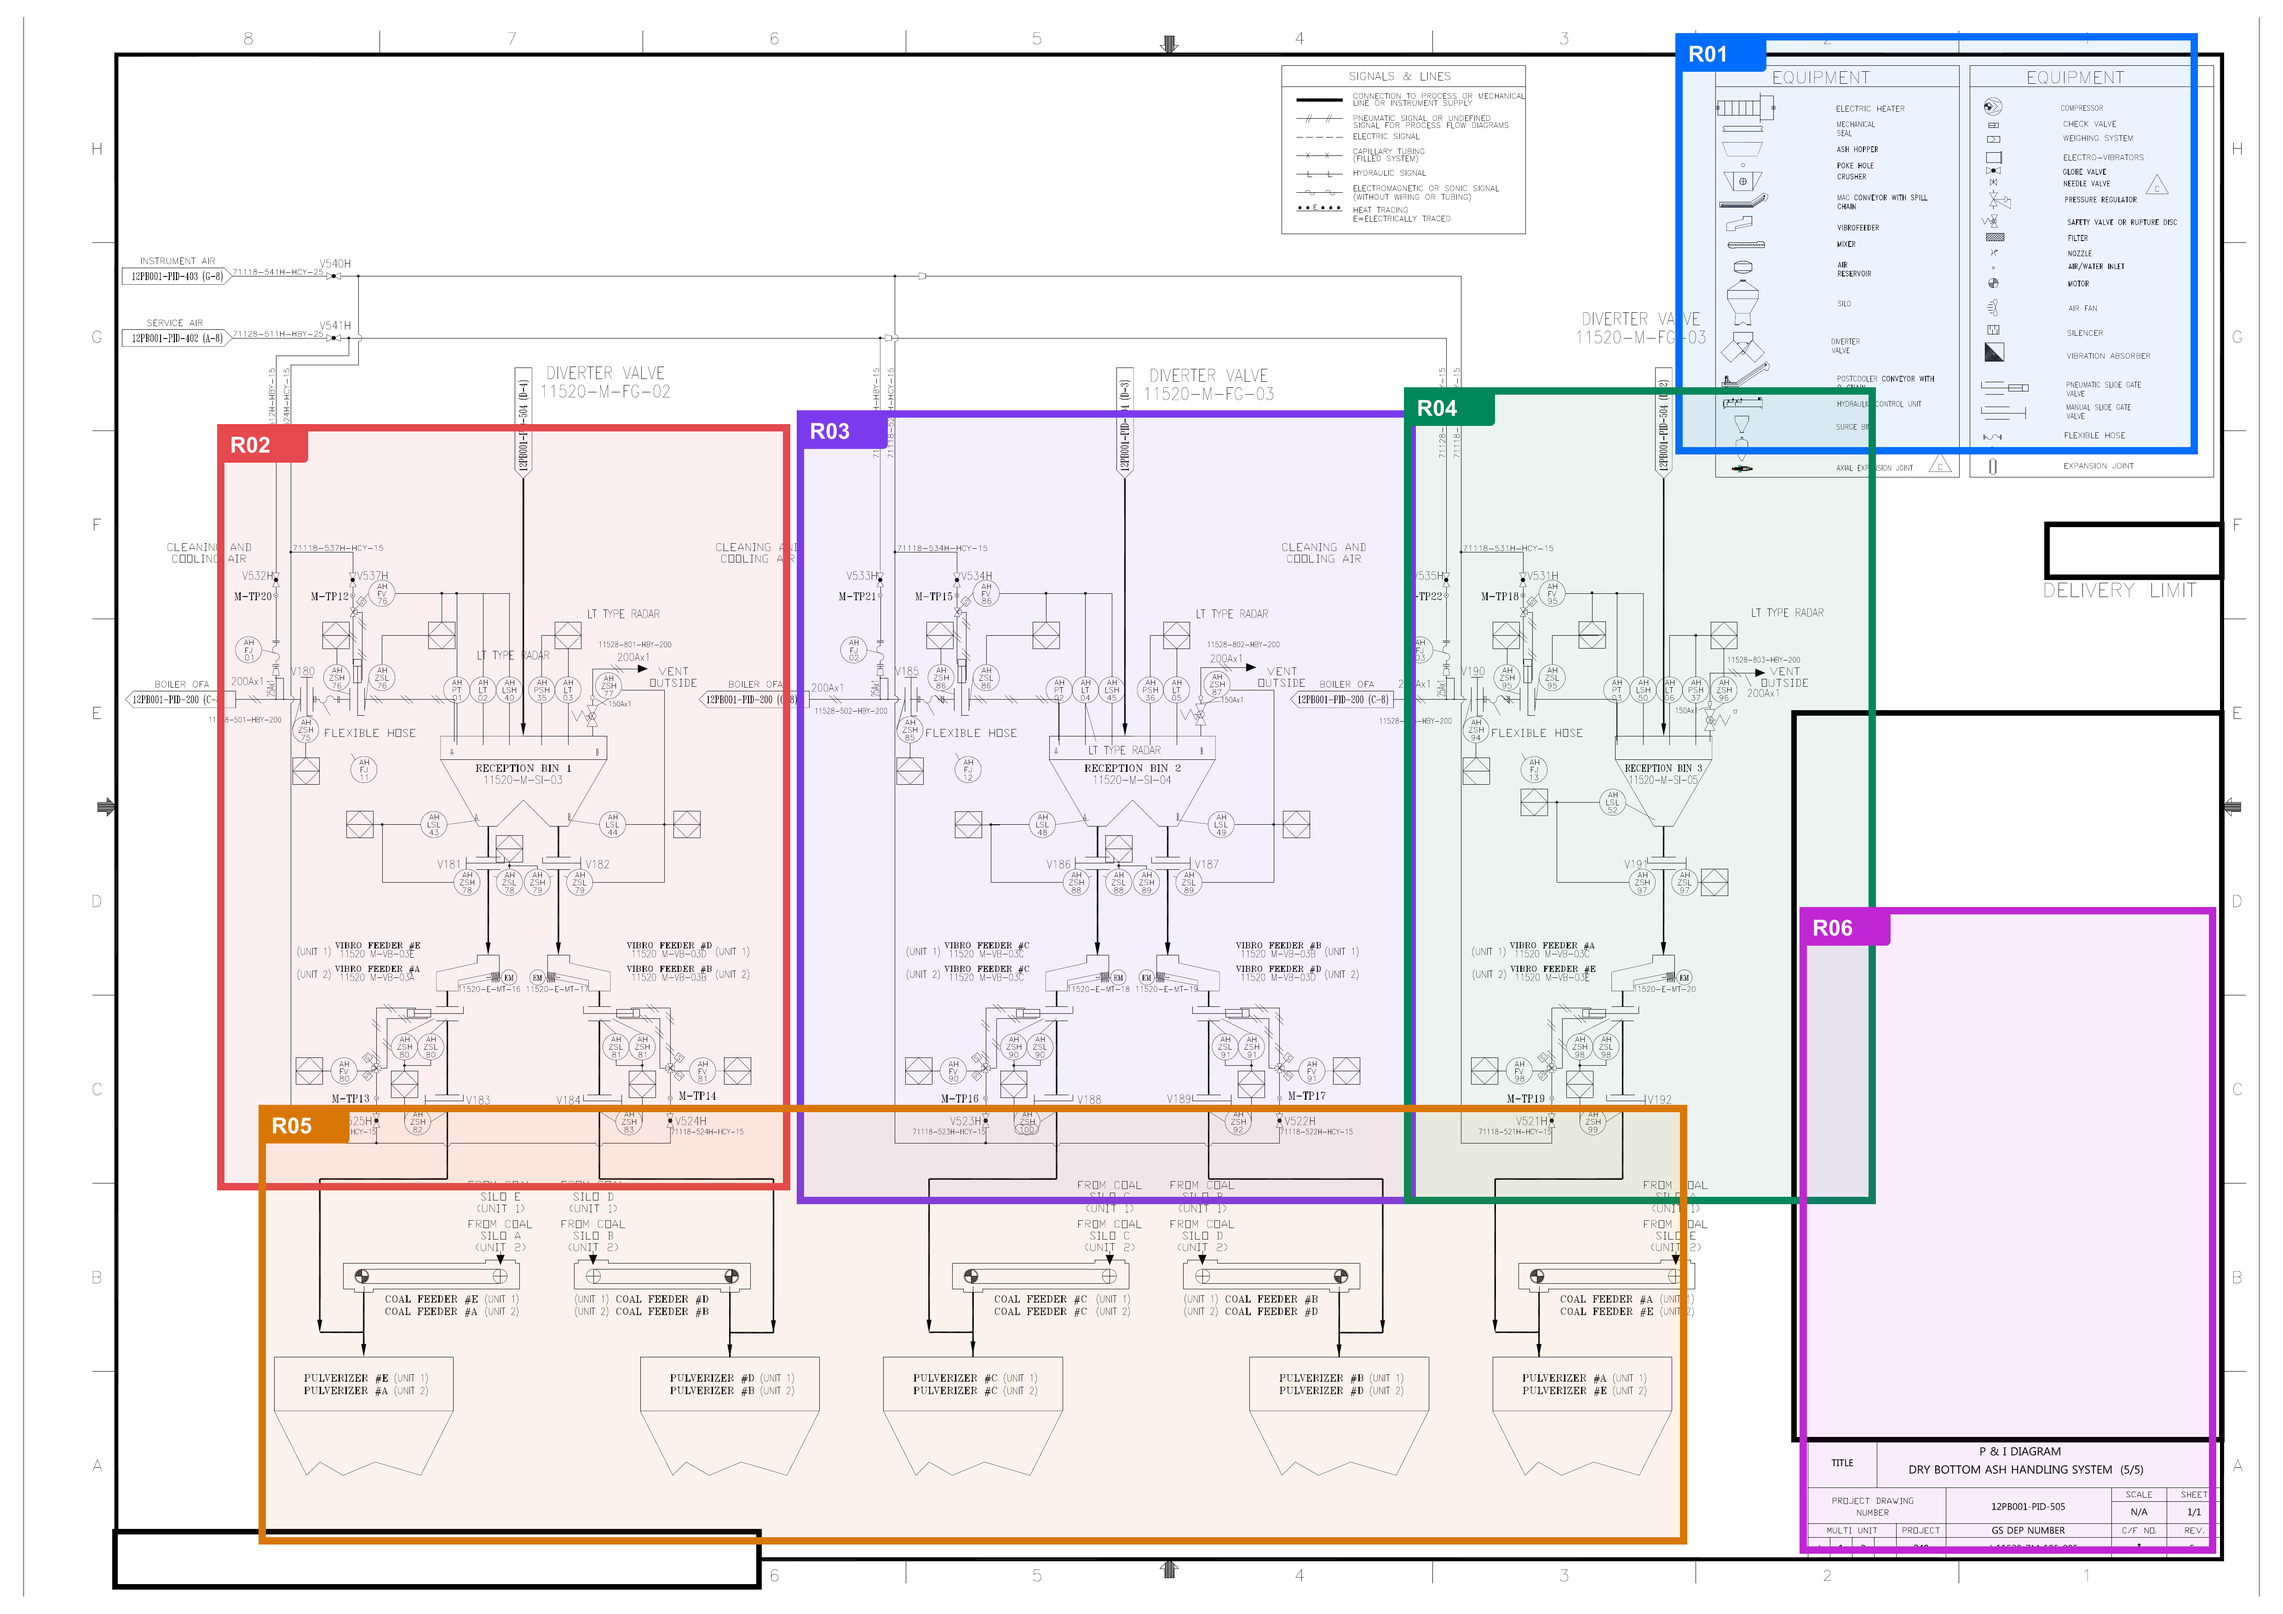
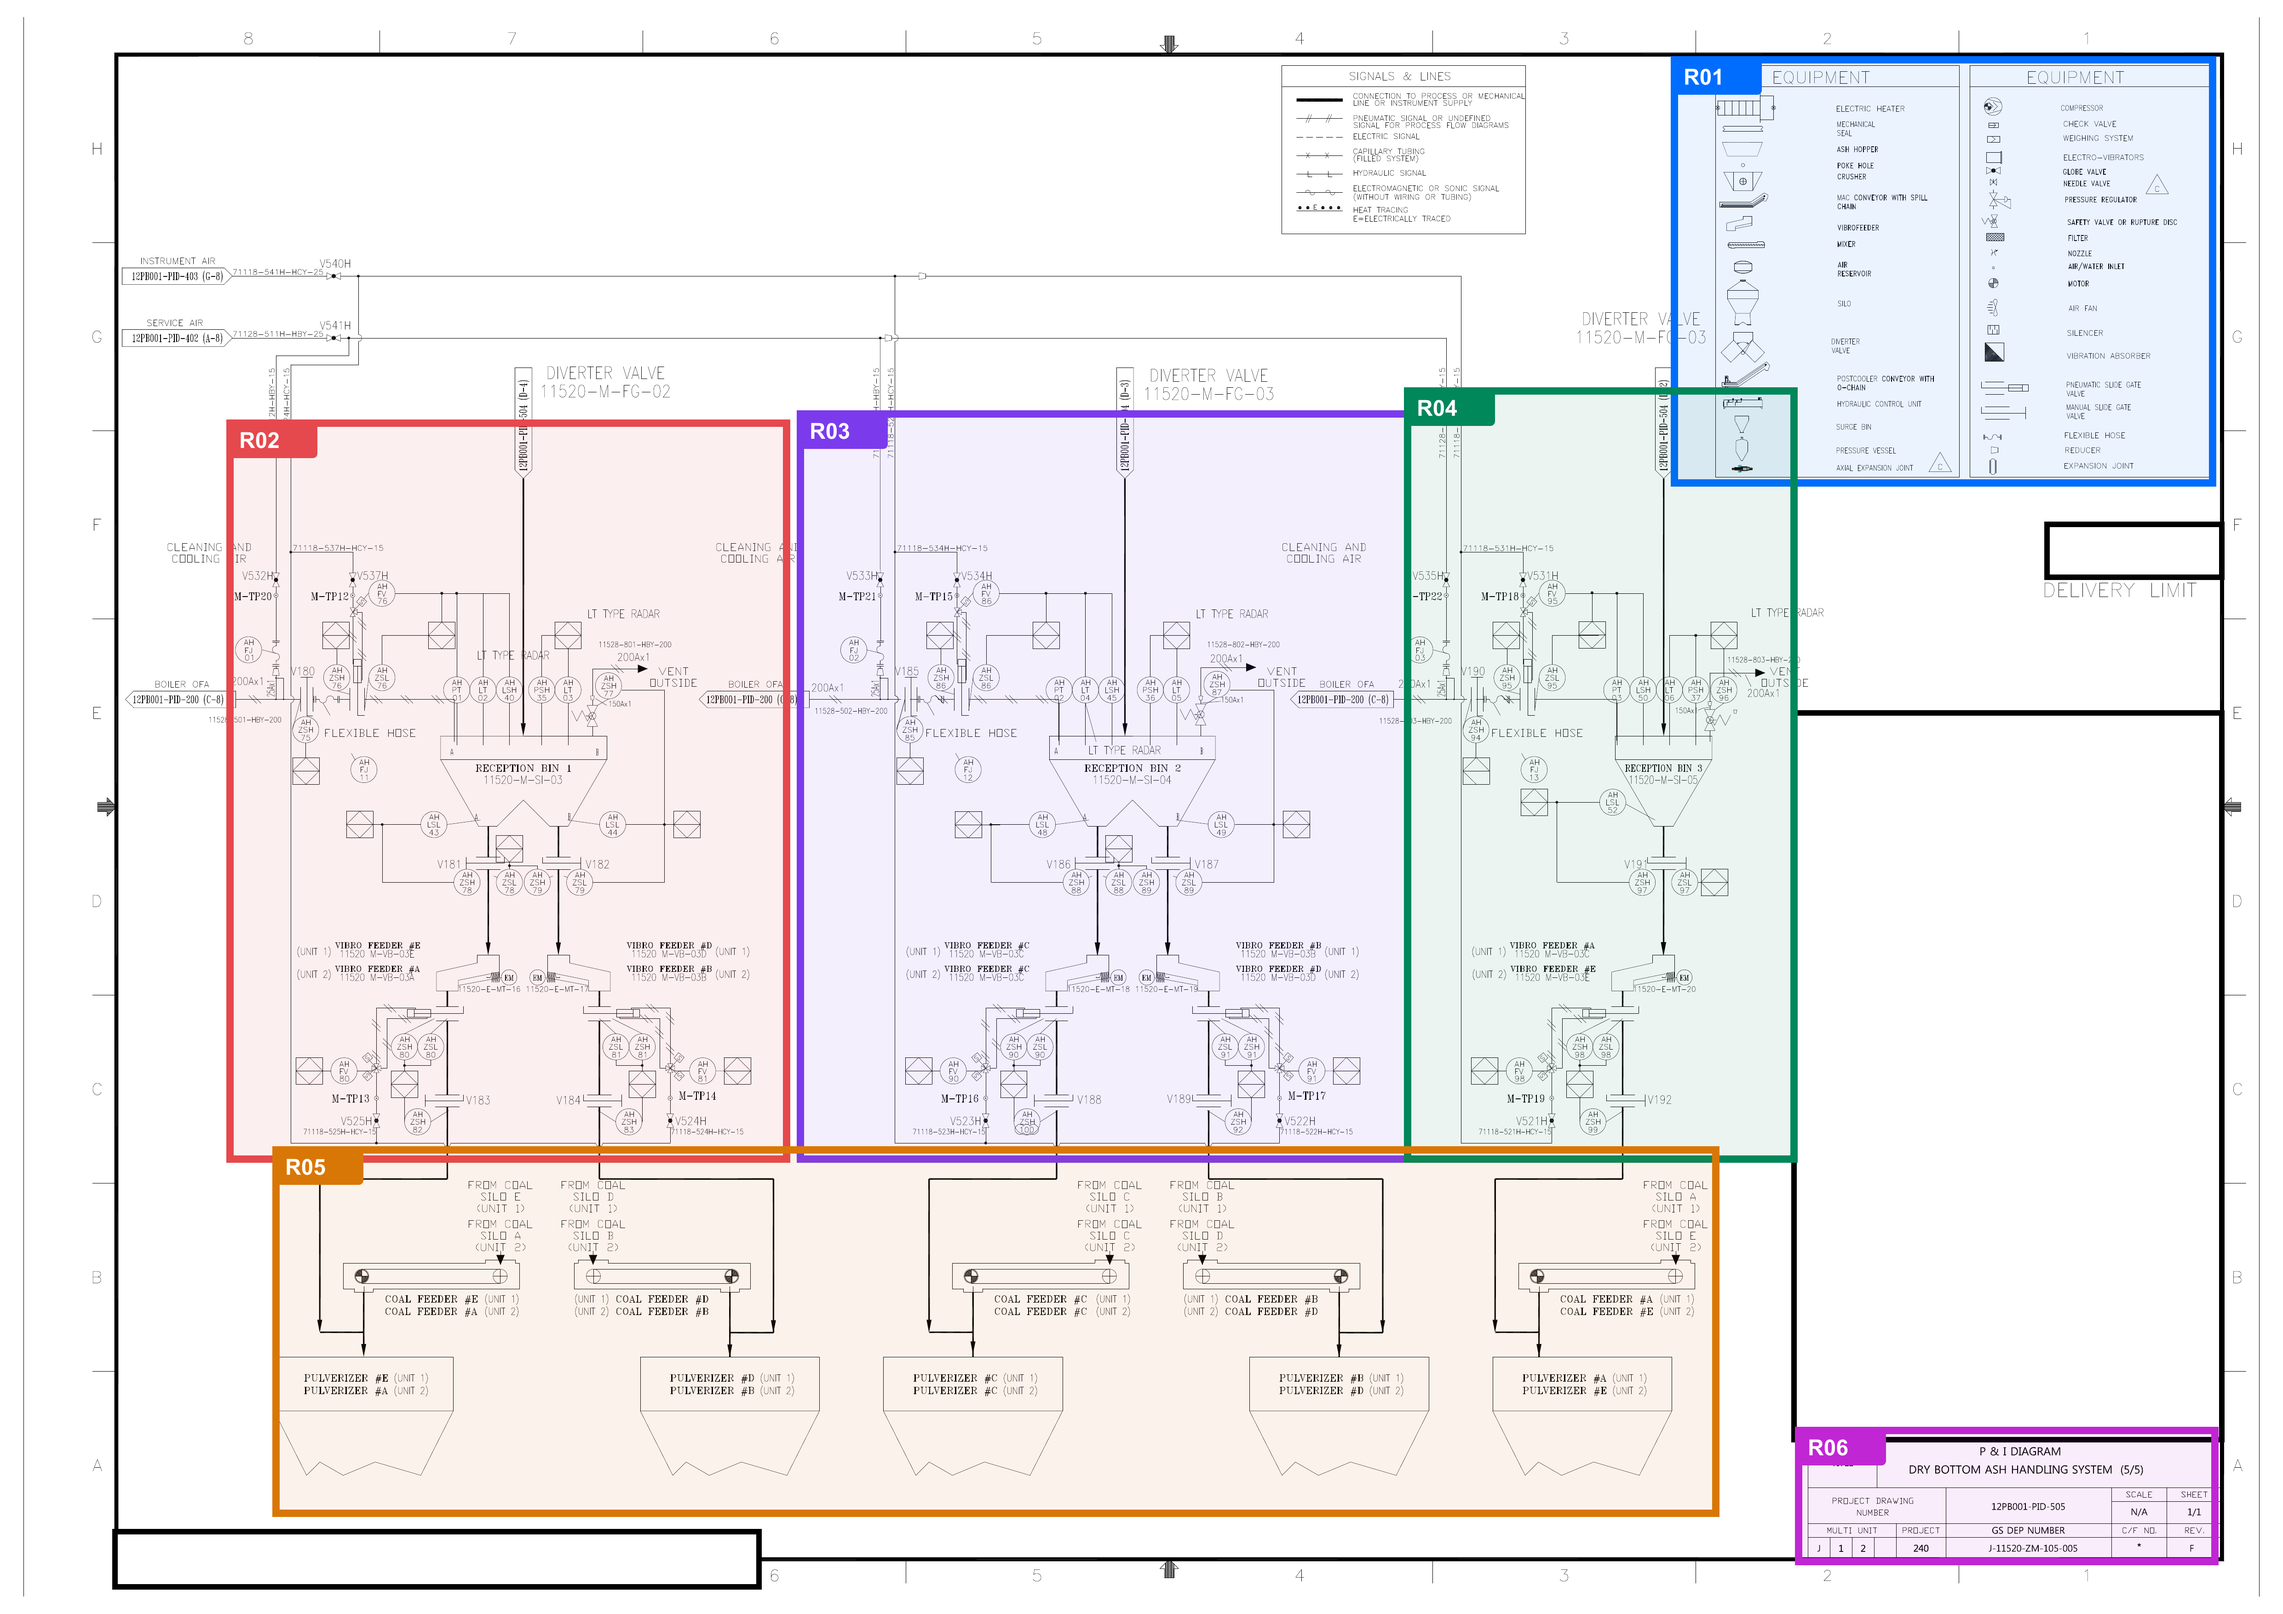
Refine P&ID region boundaries

Changed region(s): [[0.0937, 0.0, 0.9682, 0.994]]

diff --git a/docs/04-pid-indexing.md b/docs/04-pid-indexing.md
@@ -94,32 +94,32 @@ region은 장비 하나의 외곽을 정밀하게 따는 픽셀 마스크가 아
     {
       "id": "R01",
       "name": "legend",
-      "bbox": [3650, 80, 4770, 980]
+      "bbox": [3640, 130, 4810, 1050]
     },
     {
       "id": "R02",
       "name": "Reception Bin 1 system",
-      "bbox": [480, 930, 1710, 2580]
+      "bbox": [500, 920, 1710, 2520]
     },
     {
       "id": "R03",
       "name": "Reception Bin 2 system",
-      "bbox": [1740, 900, 3070, 2610]
+      "bbox": [1740, 900, 3060, 2520]
     },
     {
       "id": "R04",
       "name": "Reception Bin 3 system",
-      "bbox": [3060, 850, 4070, 2610]
+      "bbox": [3060, 850, 3900, 2520]
     },
     {
       "id": "R05",
       "name": "downstream connections",
-      "bbox": [570, 2410, 3660, 3350]
+      "bbox": [600, 2500, 3730, 3290]
     },
     {
       "id": "R06",
       "name": "title block",
-      "bbox": [3920, 1980, 4810, 3370]
+      "bbox": [3910, 3110, 4815, 3395]
     }
   ]
 }
@@ -136,7 +136,7 @@ region은 장비 하나의 외곽을 정밀하게 따는 픽셀 마스크가 아
   "id": "R03",
   "name": "Reception Bin 2 system",
   "summary": "Reception Bin 2와 하부 A/B 출구, Vibro Feeder 및 Motor가 포함된 구역",
-  "bbox": [1740, 900, 3070, 2610]
+  "bbox": [1740, 900, 3060, 2520]
 }
 ```
 
@@ -194,37 +194,37 @@ OCR이 제안한 문자열을 바로 태그 목록에 넣어서는 안 됩니다
       "id": "R01",
       "name": "legend",
       "summary": "도면에서 사용하는 주요 심벌과 선 형식을 설명하는 구역",
-      "bbox": [3650, 80, 4770, 980]
+      "bbox": [3640, 130, 4810, 1050]
     },
     {
       "id": "R02",
       "name": "Reception Bin 1 system",
       "summary": "Reception Bin 1과 하부 출구 및 Feeder가 포함된 구역",
-      "bbox": [480, 930, 1710, 2580]
+      "bbox": [500, 920, 1710, 2520]
     },
     {
       "id": "R03",
       "name": "Reception Bin 2 system",
       "summary": "Reception Bin 2와 하부 A/B 출구, Vibro Feeder 및 Motor가 포함된 구역",
-      "bbox": [1740, 900, 3070, 2610]
+      "bbox": [1740, 900, 3060, 2520]
     },
     {
       "id": "R04",
       "name": "Reception Bin 3 system",
       "summary": "Reception Bin 3과 하부 출구 및 Feeder가 포함된 구역",
-      "bbox": [3060, 850, 4070, 2610]
+      "bbox": [3060, 850, 3900, 2520]
     },
     {
       "id": "R05",
       "name": "downstream connections",
       "summary": "세 Reception Bin 계통 아래의 공통 연결부가 포함된 구역",
-      "bbox": [570, 2410, 3660, 3350]
+      "bbox": [600, 2500, 3730, 3290]
     },
     {
       "id": "R06",
       "name": "title block",
       "summary": "도면번호, 제목, revision과 sheet 정보가 있는 구역",
-      "bbox": [3920, 1980, 4810, 3370]
+      "bbox": [3910, 3110, 4815, 3395]
     }
   ],
   "tags": [
